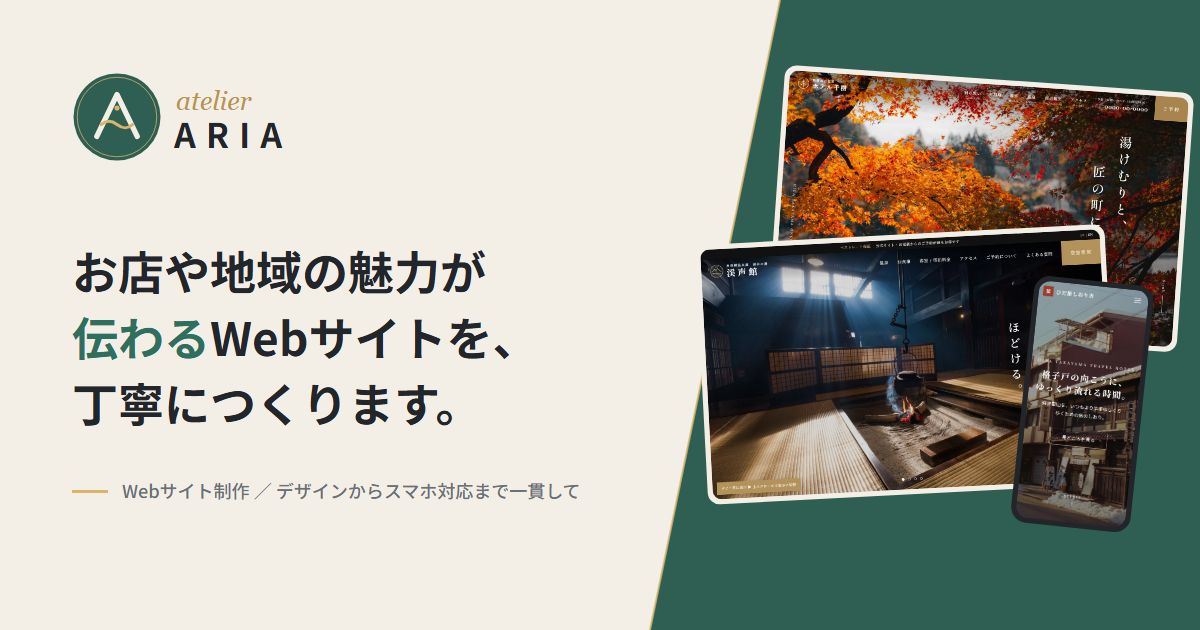
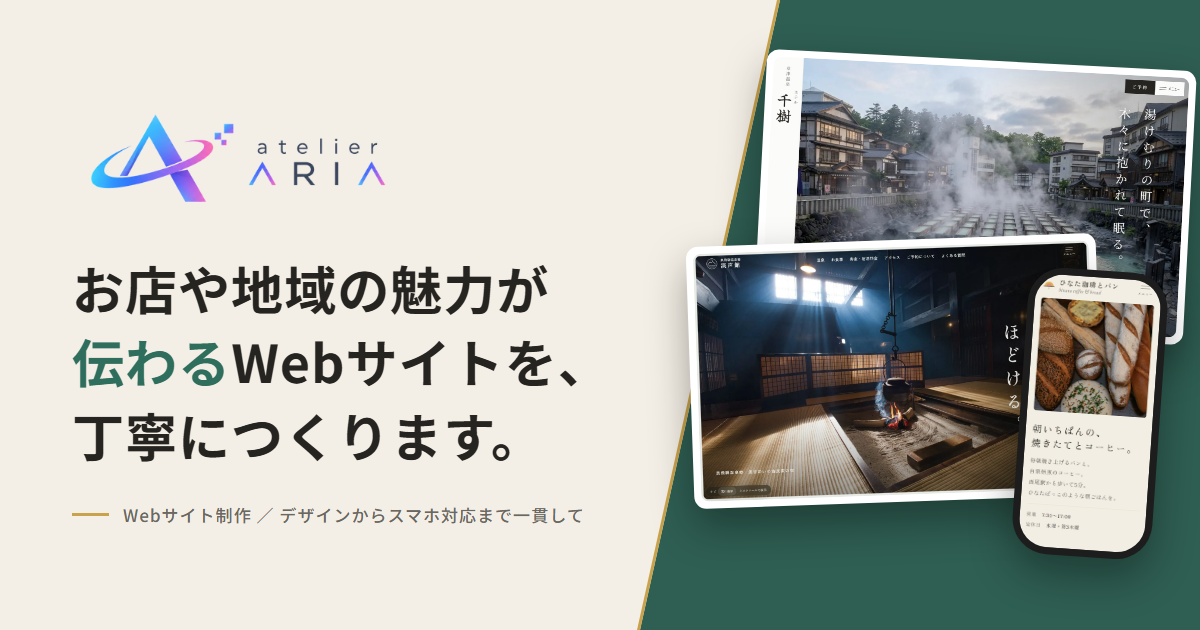
ポートフォリオのバナーとリンク用画像を新しいロゴと最新の作品画面に差し替え

Changed region(s): [[0.5242, 0.0302, 1.0, 1.0], [0.0617, 0.3921, 0.4933, 0.8444], [0.0617, 0.1206, 0.3083, 0.3317]]

diff --git a/index.html b/index.html
@@ -137,7 +137,7 @@
       <div class="container">
         <p class="label">WEB DESIGN &amp; CODING</p>
         <h1><span class="nw">お店や地域の魅力が</span><span class="nw"><em>伝わる</em>Webサイトを、</span><span class="nw">丁寧につくります。</span></h1>
-        <img src="img/aria-header.jpg" alt="" width="2000" height="667" class="hero__banner">
+        <img src="img/aria-header-v3.jpg" alt="" width="2000" height="667" class="hero__banner">
         <p>飲食店・観光・小さな事業者さま向けに、デザインからコーディング、スマホ対応まで一貫して制作しています。ページビルダーに頼らない、軽くて修正しやすいコードでお渡しします。AIツールで作業を効率化し、短納期・お手頃な価格でご提供しています。</p>
         <ul class="tags">
           <li>HTML / CSS / JavaScript</li>
